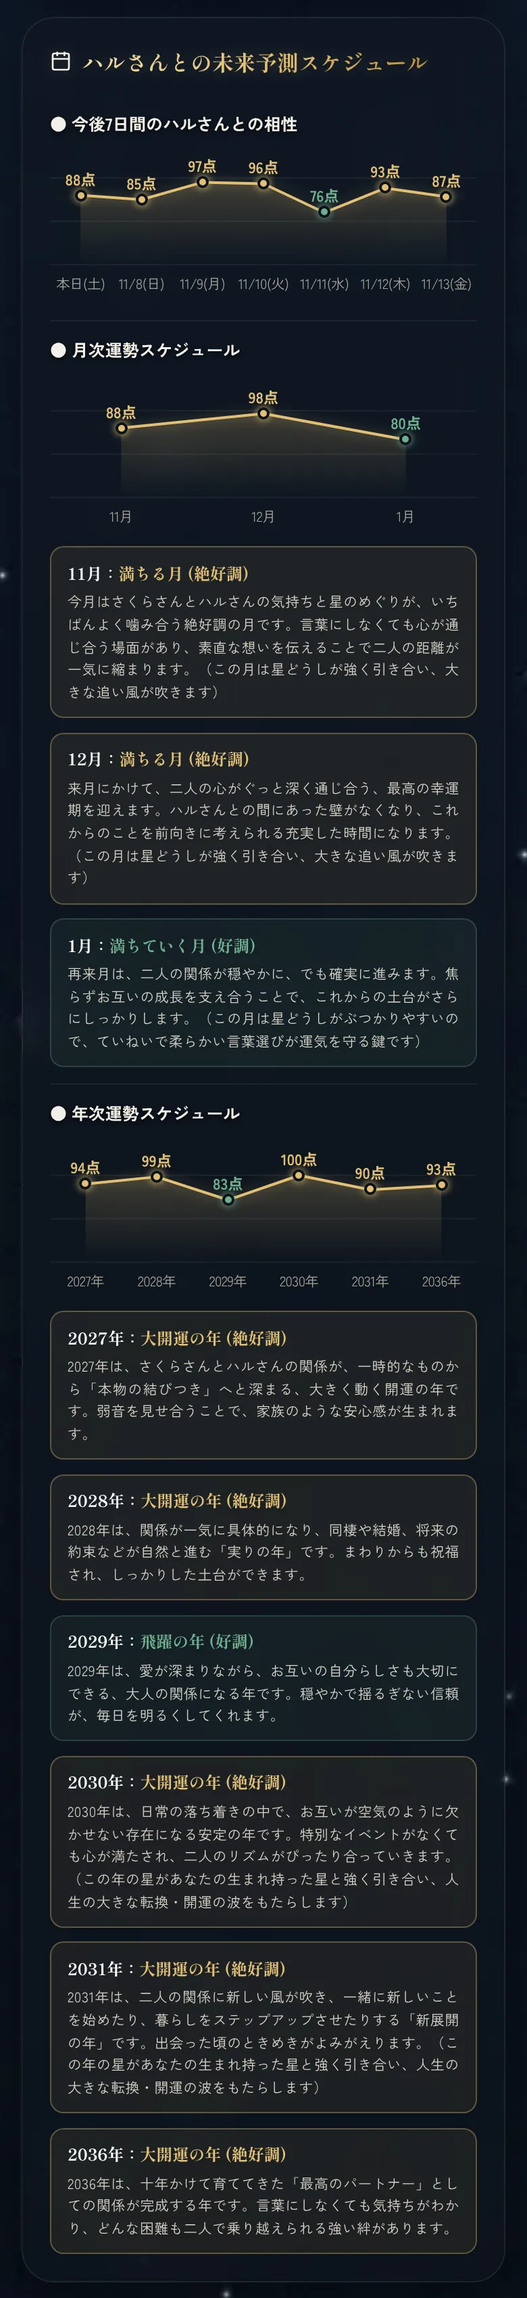
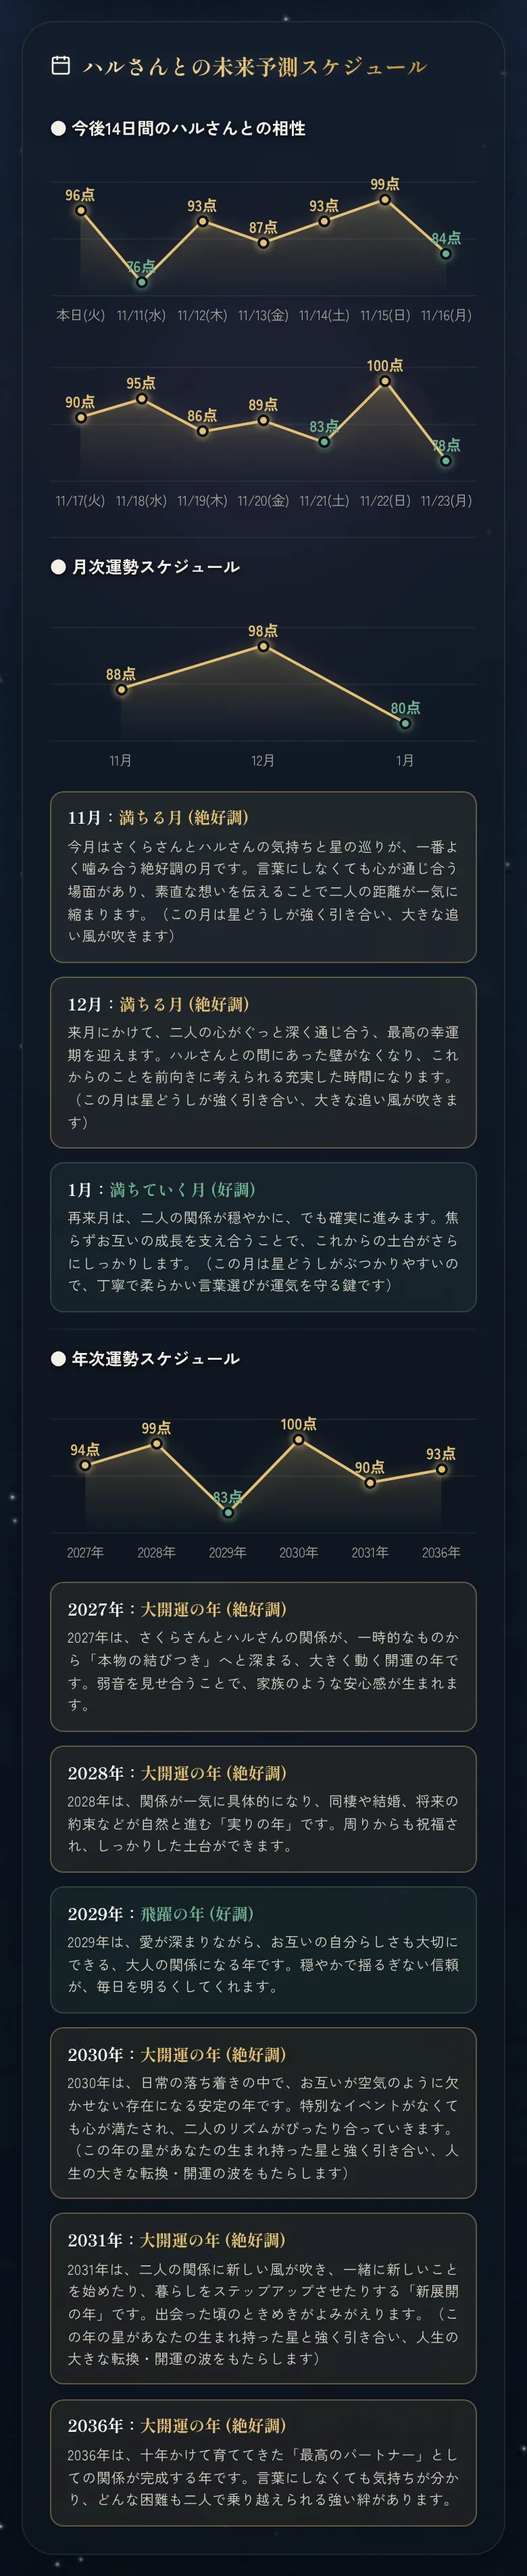
feat: 購入LPの未来予測スケジュールの画面イメージを14日間のグラフで撮り直し
年次グラフが見えるよう表示位置を 54% → 58% に調整

Claude-Session: https://claude.ai/code/session_019582yDmz5AgRfYFSYMStmC

diff --git a/src/components/PremiumLPModal.tsx b/src/components/PremiumLPModal.tsx
@@ -20,7 +20,7 @@ const benefits = [
     shot: '/assets/premium/timeline-line.webp',
     shotAlt: '14日間・月ごと・年ごとの相性の折れ線グラフの画面',
     // 画面イメージは縦長なので、10年先（年次）のグラフのところを見せる
-    shotPos: '50% 54%',
+    shotPos: '50% 58%',
     body: 'この先10年、二人の運気が年ごとにどう動くかが読めます。「大開運の年」「整える年」などの大きな波と、結婚や同棲のような大きな決断に向いた時期がひと目で分かります。明日からの14日間と月ごとの波も見れるので、近い予定から先の人生まで、見すえて動けますよ。'
   },
   {
@@ -434,7 +434,7 @@ export const PremiumLPModal: React.FC<PremiumLPModalProps> = ({
   // 買い切りで「今日」の内容が見れるのは購入日（日本時間）だけ。表では今日の日付で見せる（例: 11/4）
   const todayJst = new Intl.DateTimeFormat('ja-JP', { timeZone: 'Asia/Tokyo', month: 'numeric', day: 'numeric' }).format(new Date());
   const pairFirst = showPlans && focus === 'pair';
-  const eduFuture = { who: 'tsuki', t: '10年先までの、二人の未来の流れ', shot: '/assets/premium/edu-future.webp', pos: '50% 54%', d: 'この先10年の年ごとの流れと、明日からの14日間・月ごとの相性の波。「大開運の年」や、結婚・同棲のような大きな決断に向いた時期も見えるので、先を見すえて動けますよ。（プレミアムプランで読めます）' } as const;
+  const eduFuture = { who: 'tsuki', t: '10年先までの、二人の未来の流れ', shot: '/assets/premium/edu-future.webp', pos: '50% 58%', d: 'この先10年の年ごとの流れと、明日からの14日間・月ごとの相性の波。「大開運の年」や、結婚・同棲のような大きな決断に向いた時期も見えるので、先を見すえて動けますよ。（プレミアムプランで読めます）' } as const;
 
   // 上（2プランの比べ方）と下（画面下に固定）で同じボタンを出す。下では「解放済み」は出さない
   const renderPlanButtons = (showUnlocked: boolean) => (
